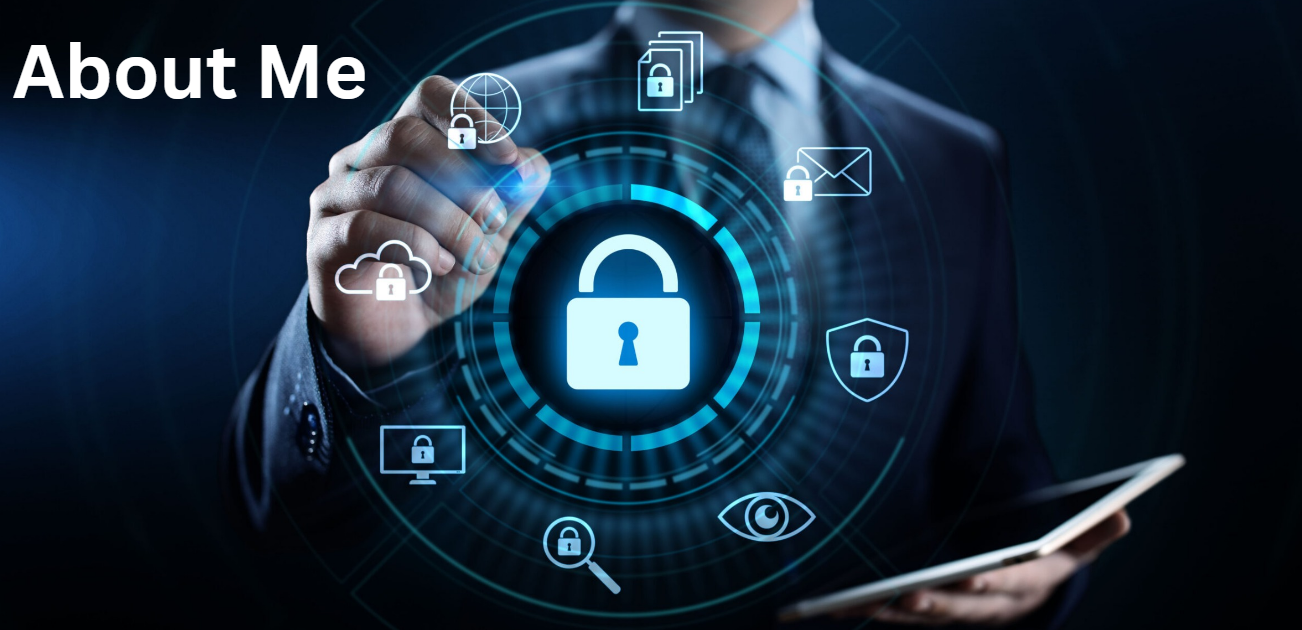
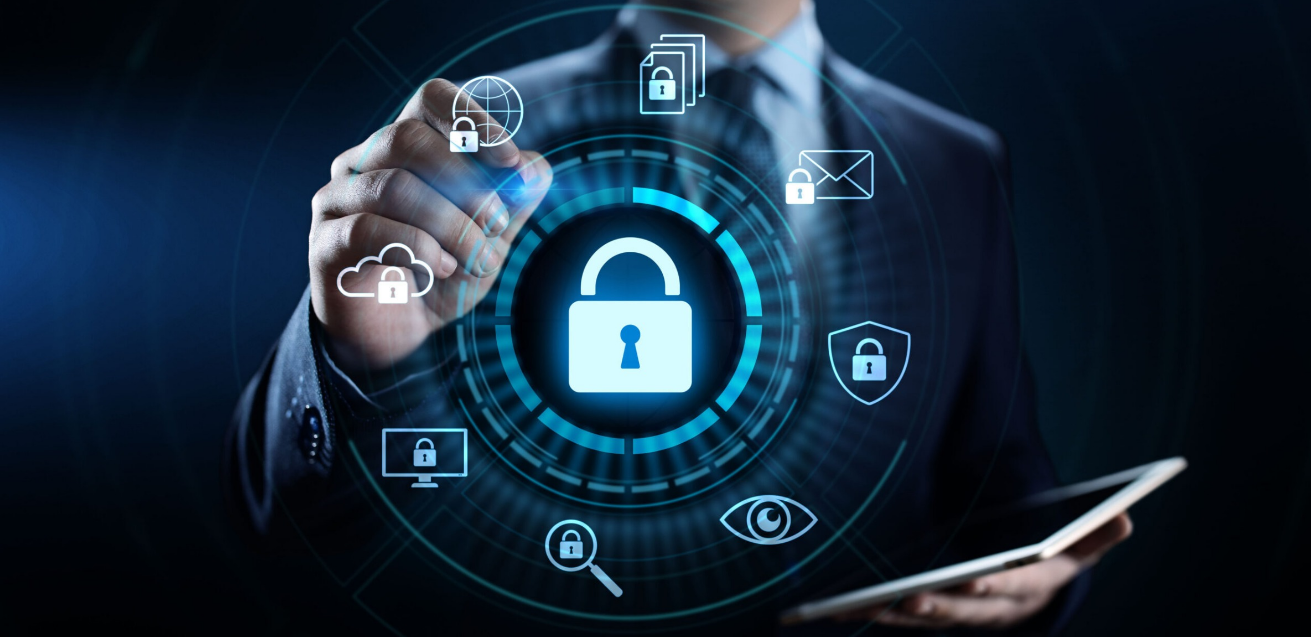
added aboutme image

diff --git a/_tabs/about.md b/_tabs/about.md
@@ -9,6 +9,8 @@ order: 1
 {: .prompt-tip }
 -->
 
+<p class="body"><img class="body" src="./assets/img/aboutme.png" alt=""></p>
+
 I am currently working as an Information Security Engineer with a total of 6 years of experience in the Information Technology (IT) realm. During this short time in the industry, I have been exposed to numerous amounts of tools in the technology stack. Some of these tools include Splunk, Mimecast, Barracuda, CrowdStrike, Cisco Umbrella, Carbon Black, Palo Alto, and many more. I have also been exposed to Active Directory, both on-premises and in the cloud with Azure, and Office 365. I obtained both the SC-200 and the SC-900 from Microsoft to obtain a foundational knowledge in Security on what the Azure platform has to offer.
 
 In my bachelor’s degree in computer science, I took a course in system vulnerability and analysis, and it got me very interesting in the tools, tactics and techniques being used by hackers in the real world. I also have my master’s degree in Cybersecurity in December of 2021 where I was able to obtain my Certified Ethical Hacker (CEH) certification from ECCouncil. I plan on using to block to post various write ups for the machines on TryHackMe, blue team guides to secure systems as well as personal tech projects that I am doing on the side.
